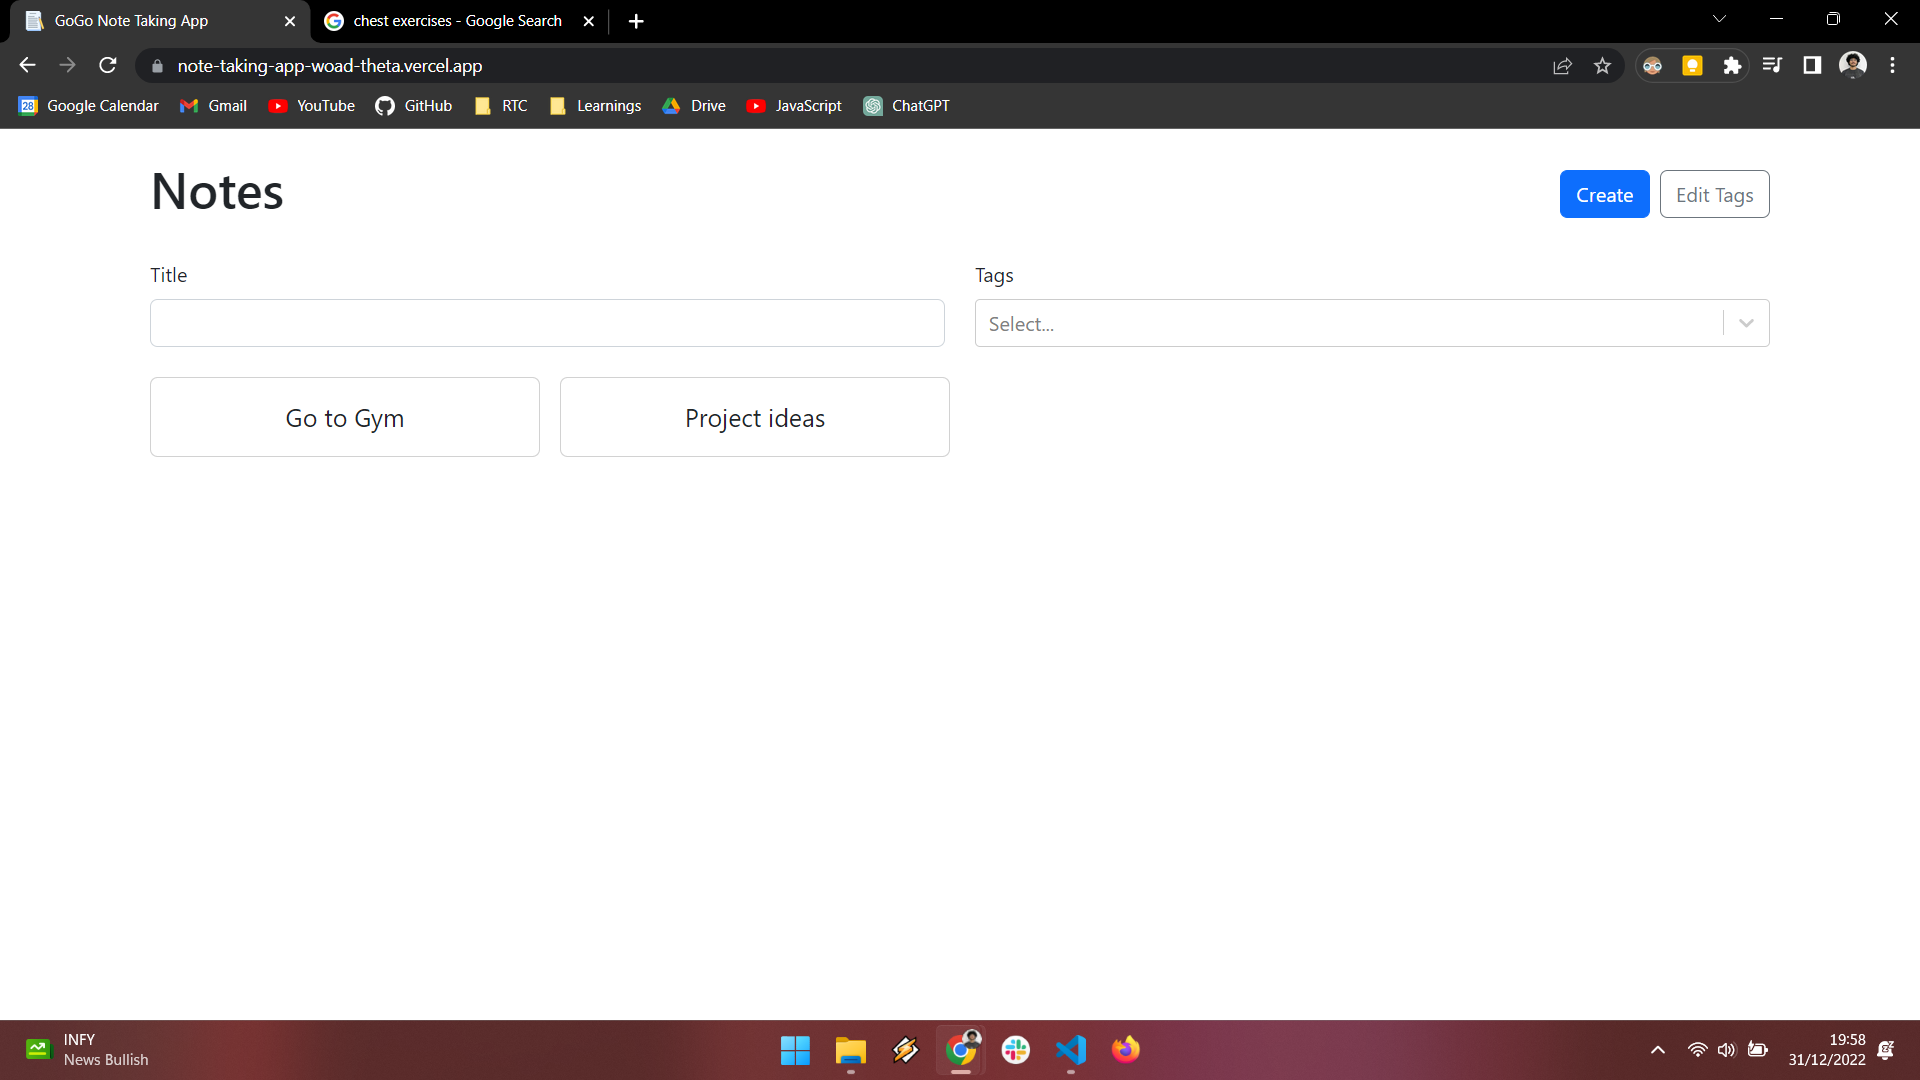
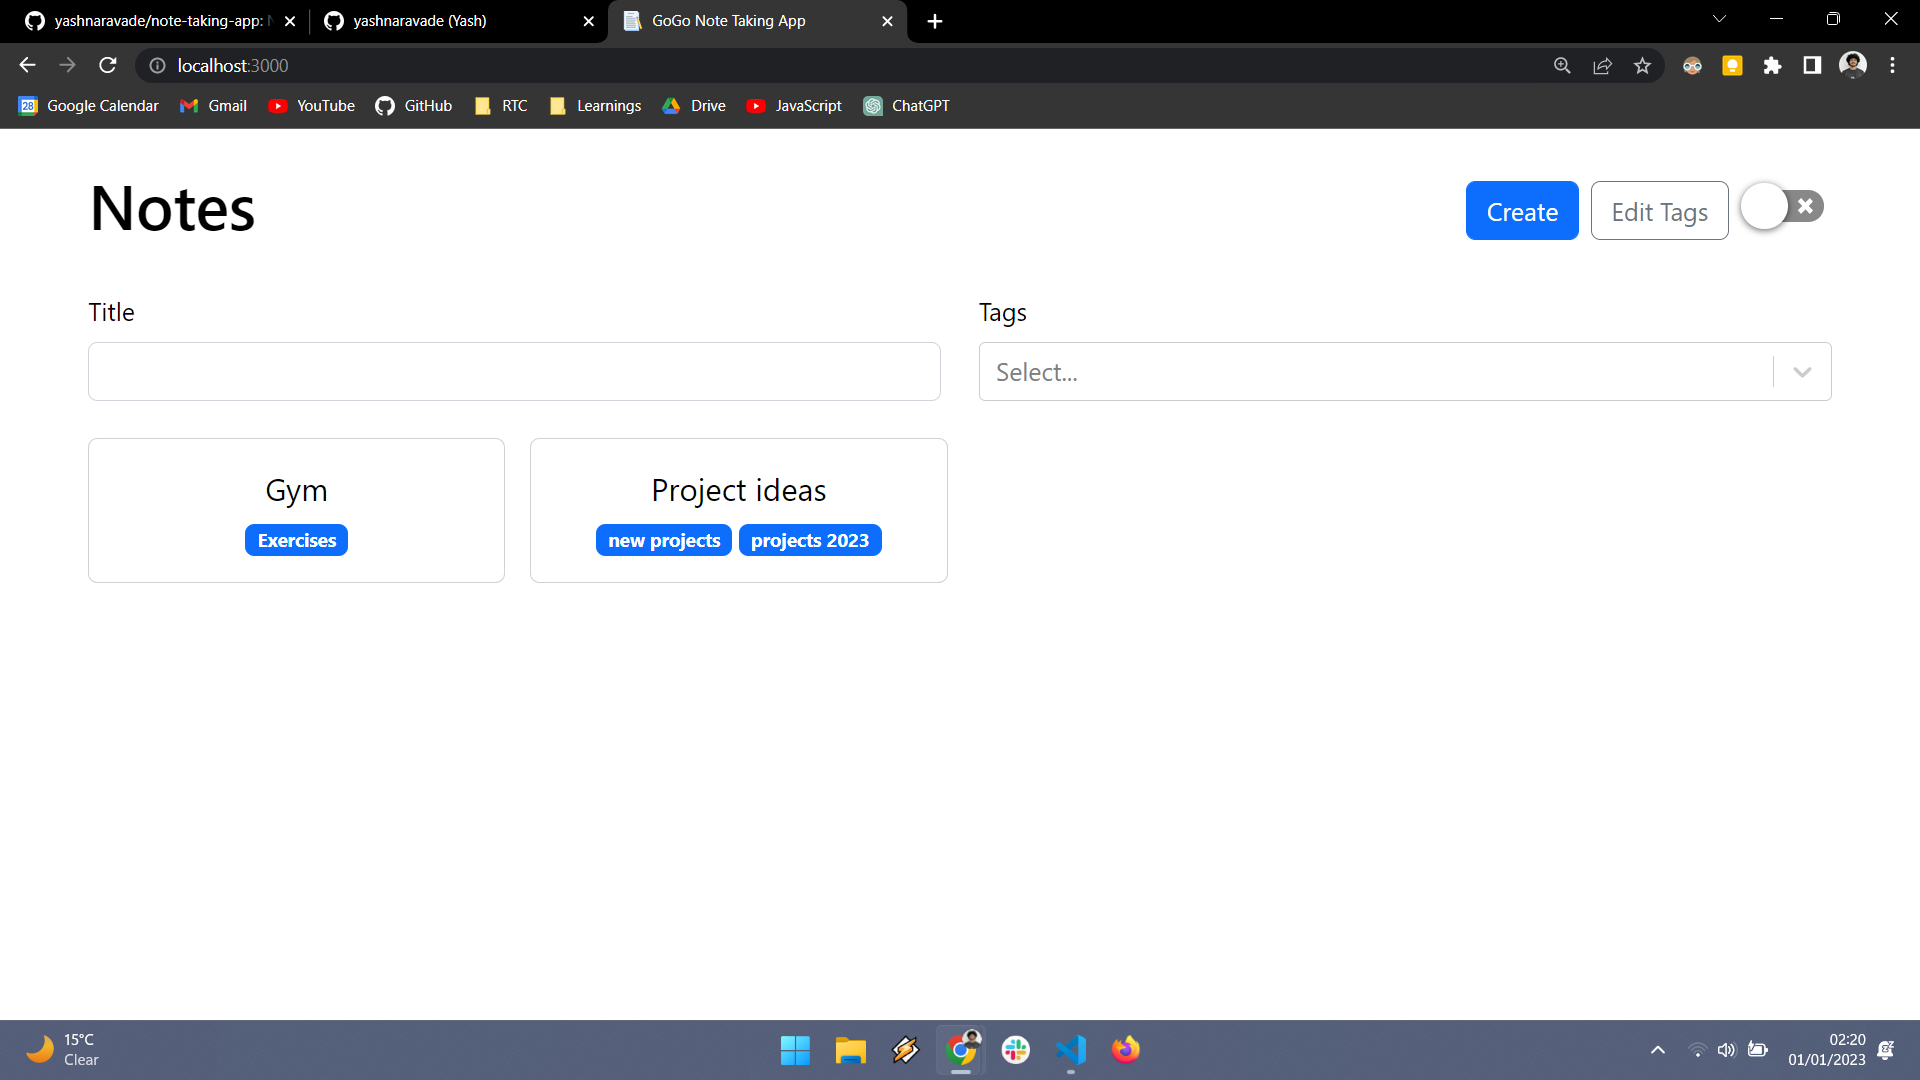
update readme content

diff --git a/README.md b/README.md
@@ -1,8 +1,11 @@
 # Note-Taking-App
 
-This is a note taking app built using Vite + React + TS. It uses the browser's local storage to store the notes. It has a search feature to search for notes. It allows you to create, edit, delete and search for notes and tags.
+This is a note taking app built using Vite + React + TS. It uses the browser's local storage to store the notes. It has a search feature to search for notes. It allows you to create, edit, delete and search for notes and tags. It also allows you to add tags to notes. It also allows you to search for notes by tags or by title. It has a dark mode and a light mode toggle.
 ### 1. View the notes with their title. Click on a note to view it.
    <img src="./src/assets/1.png">
+
+   ### 2. Dark mode:
+   <img src="./src/assets/dark.png">
 
 ### 2. Create a note:
 ![2](./src/assets/2.png)
